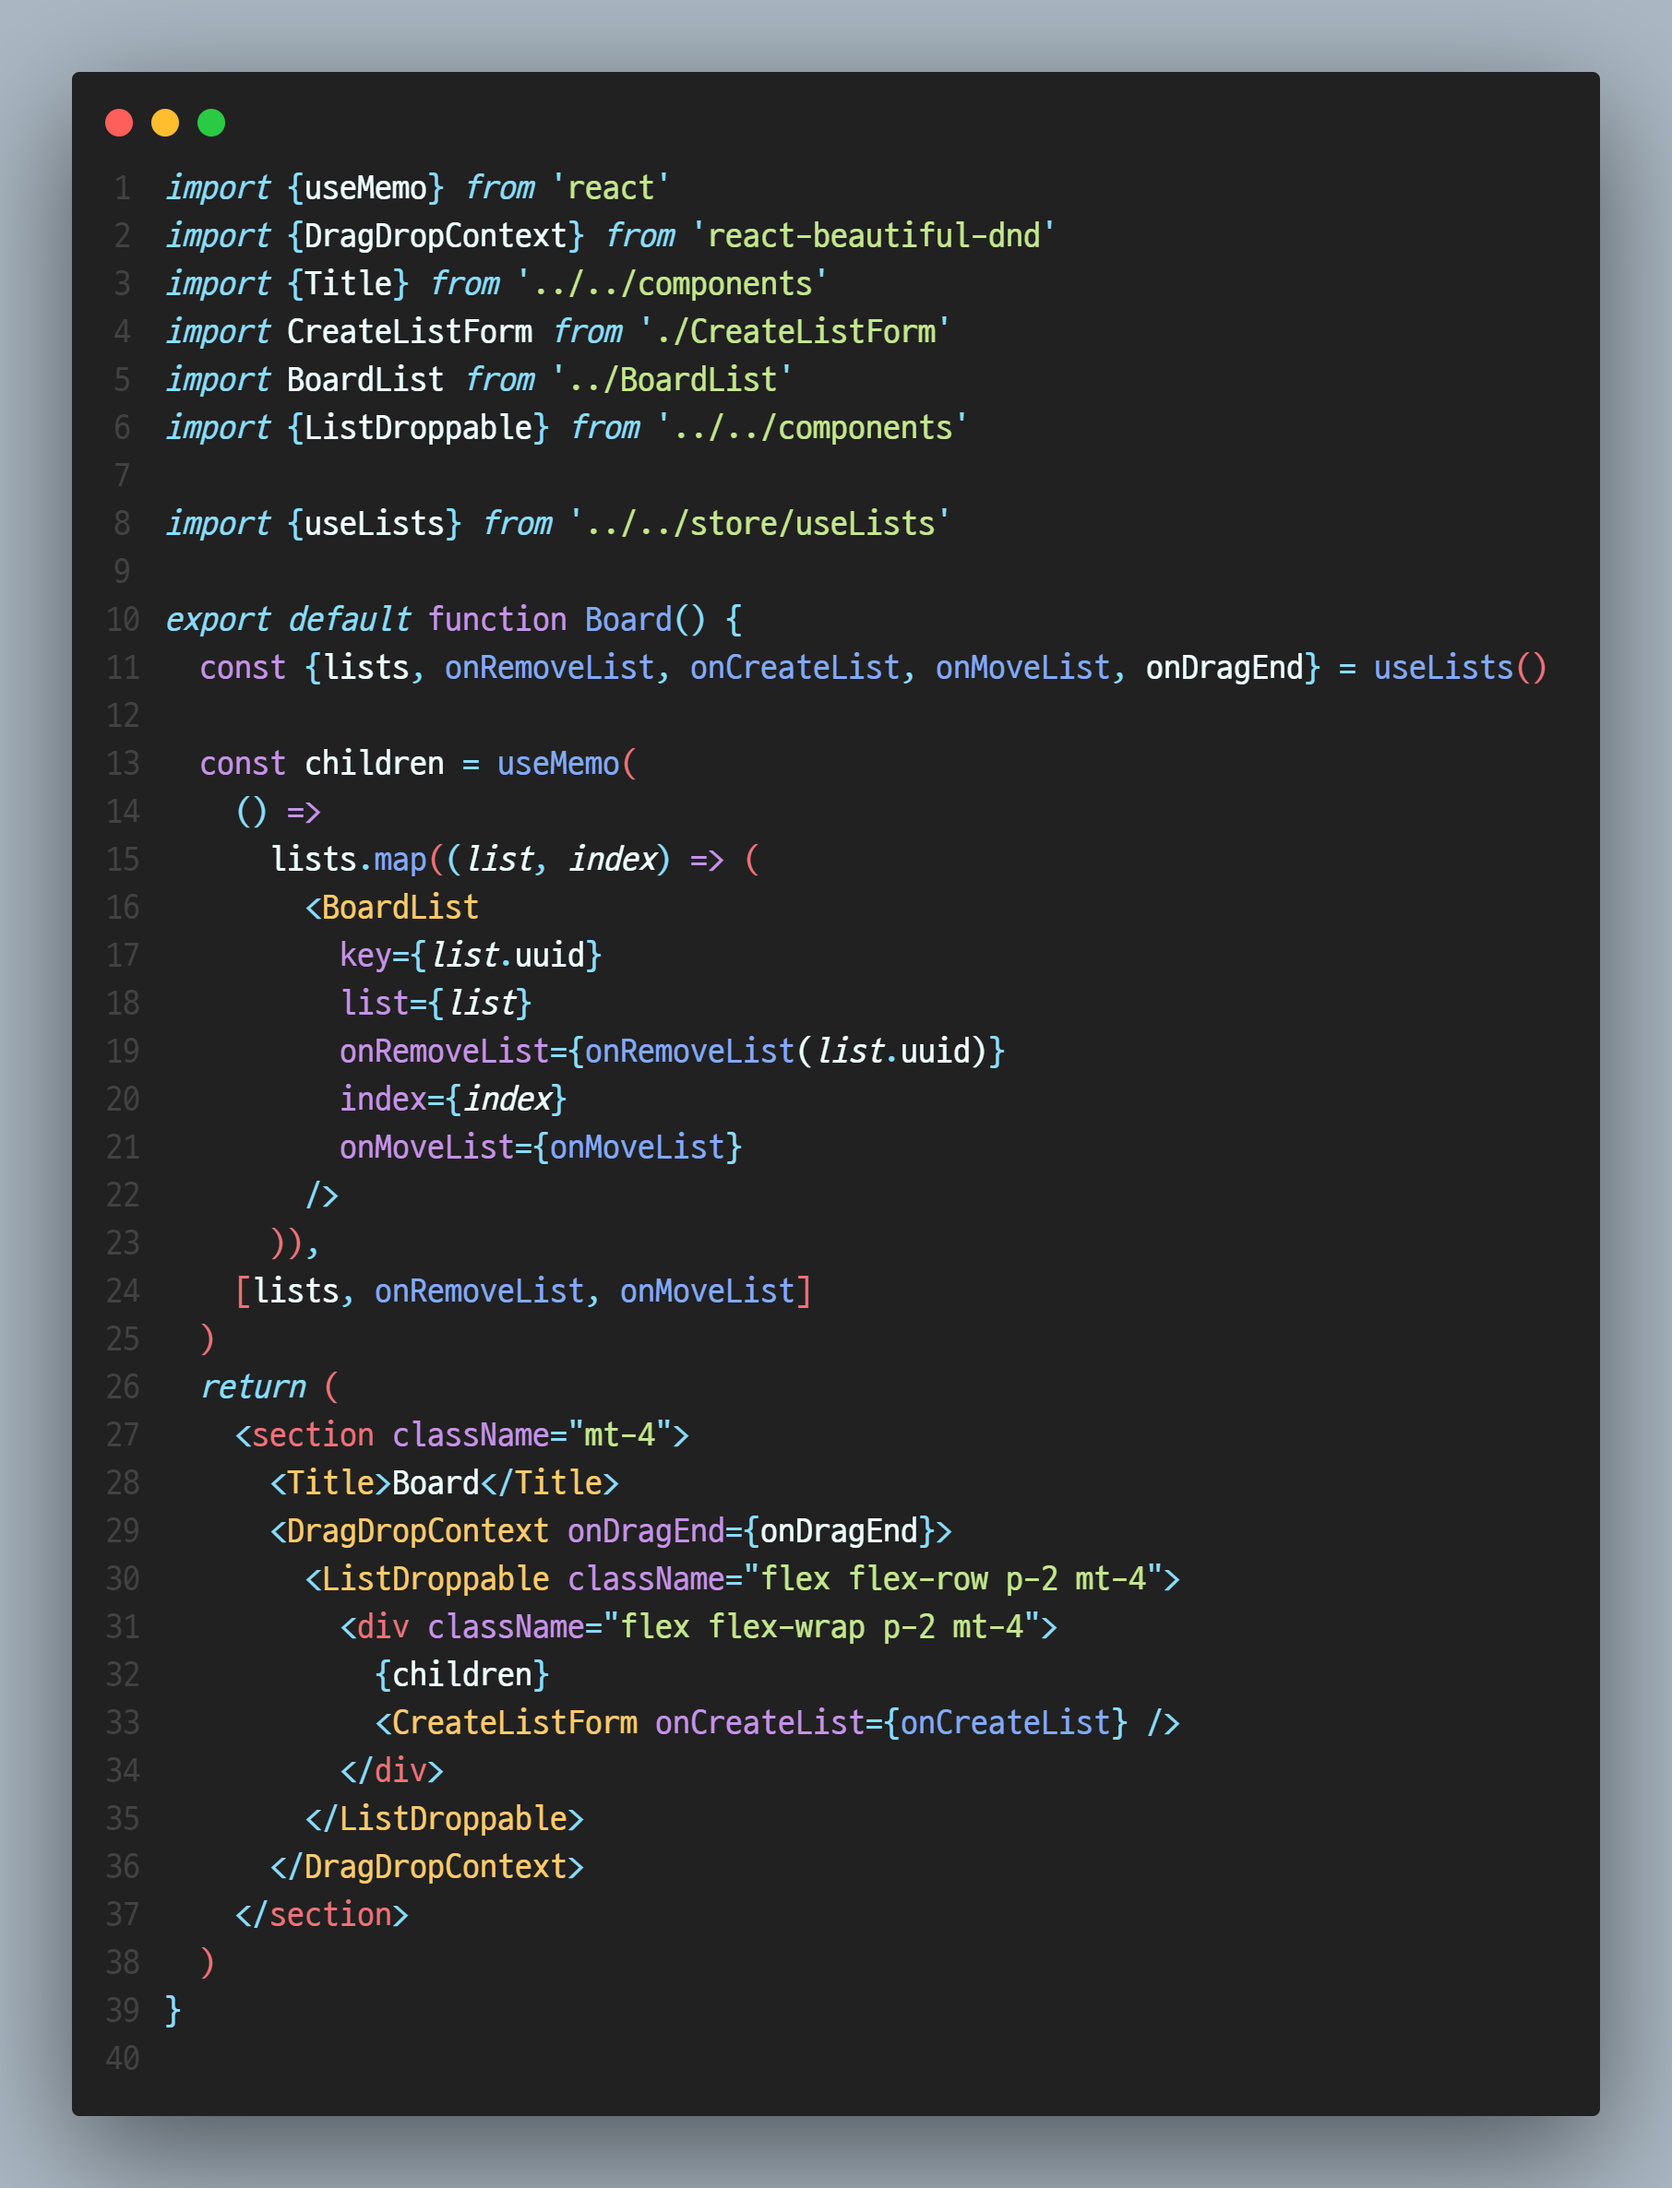
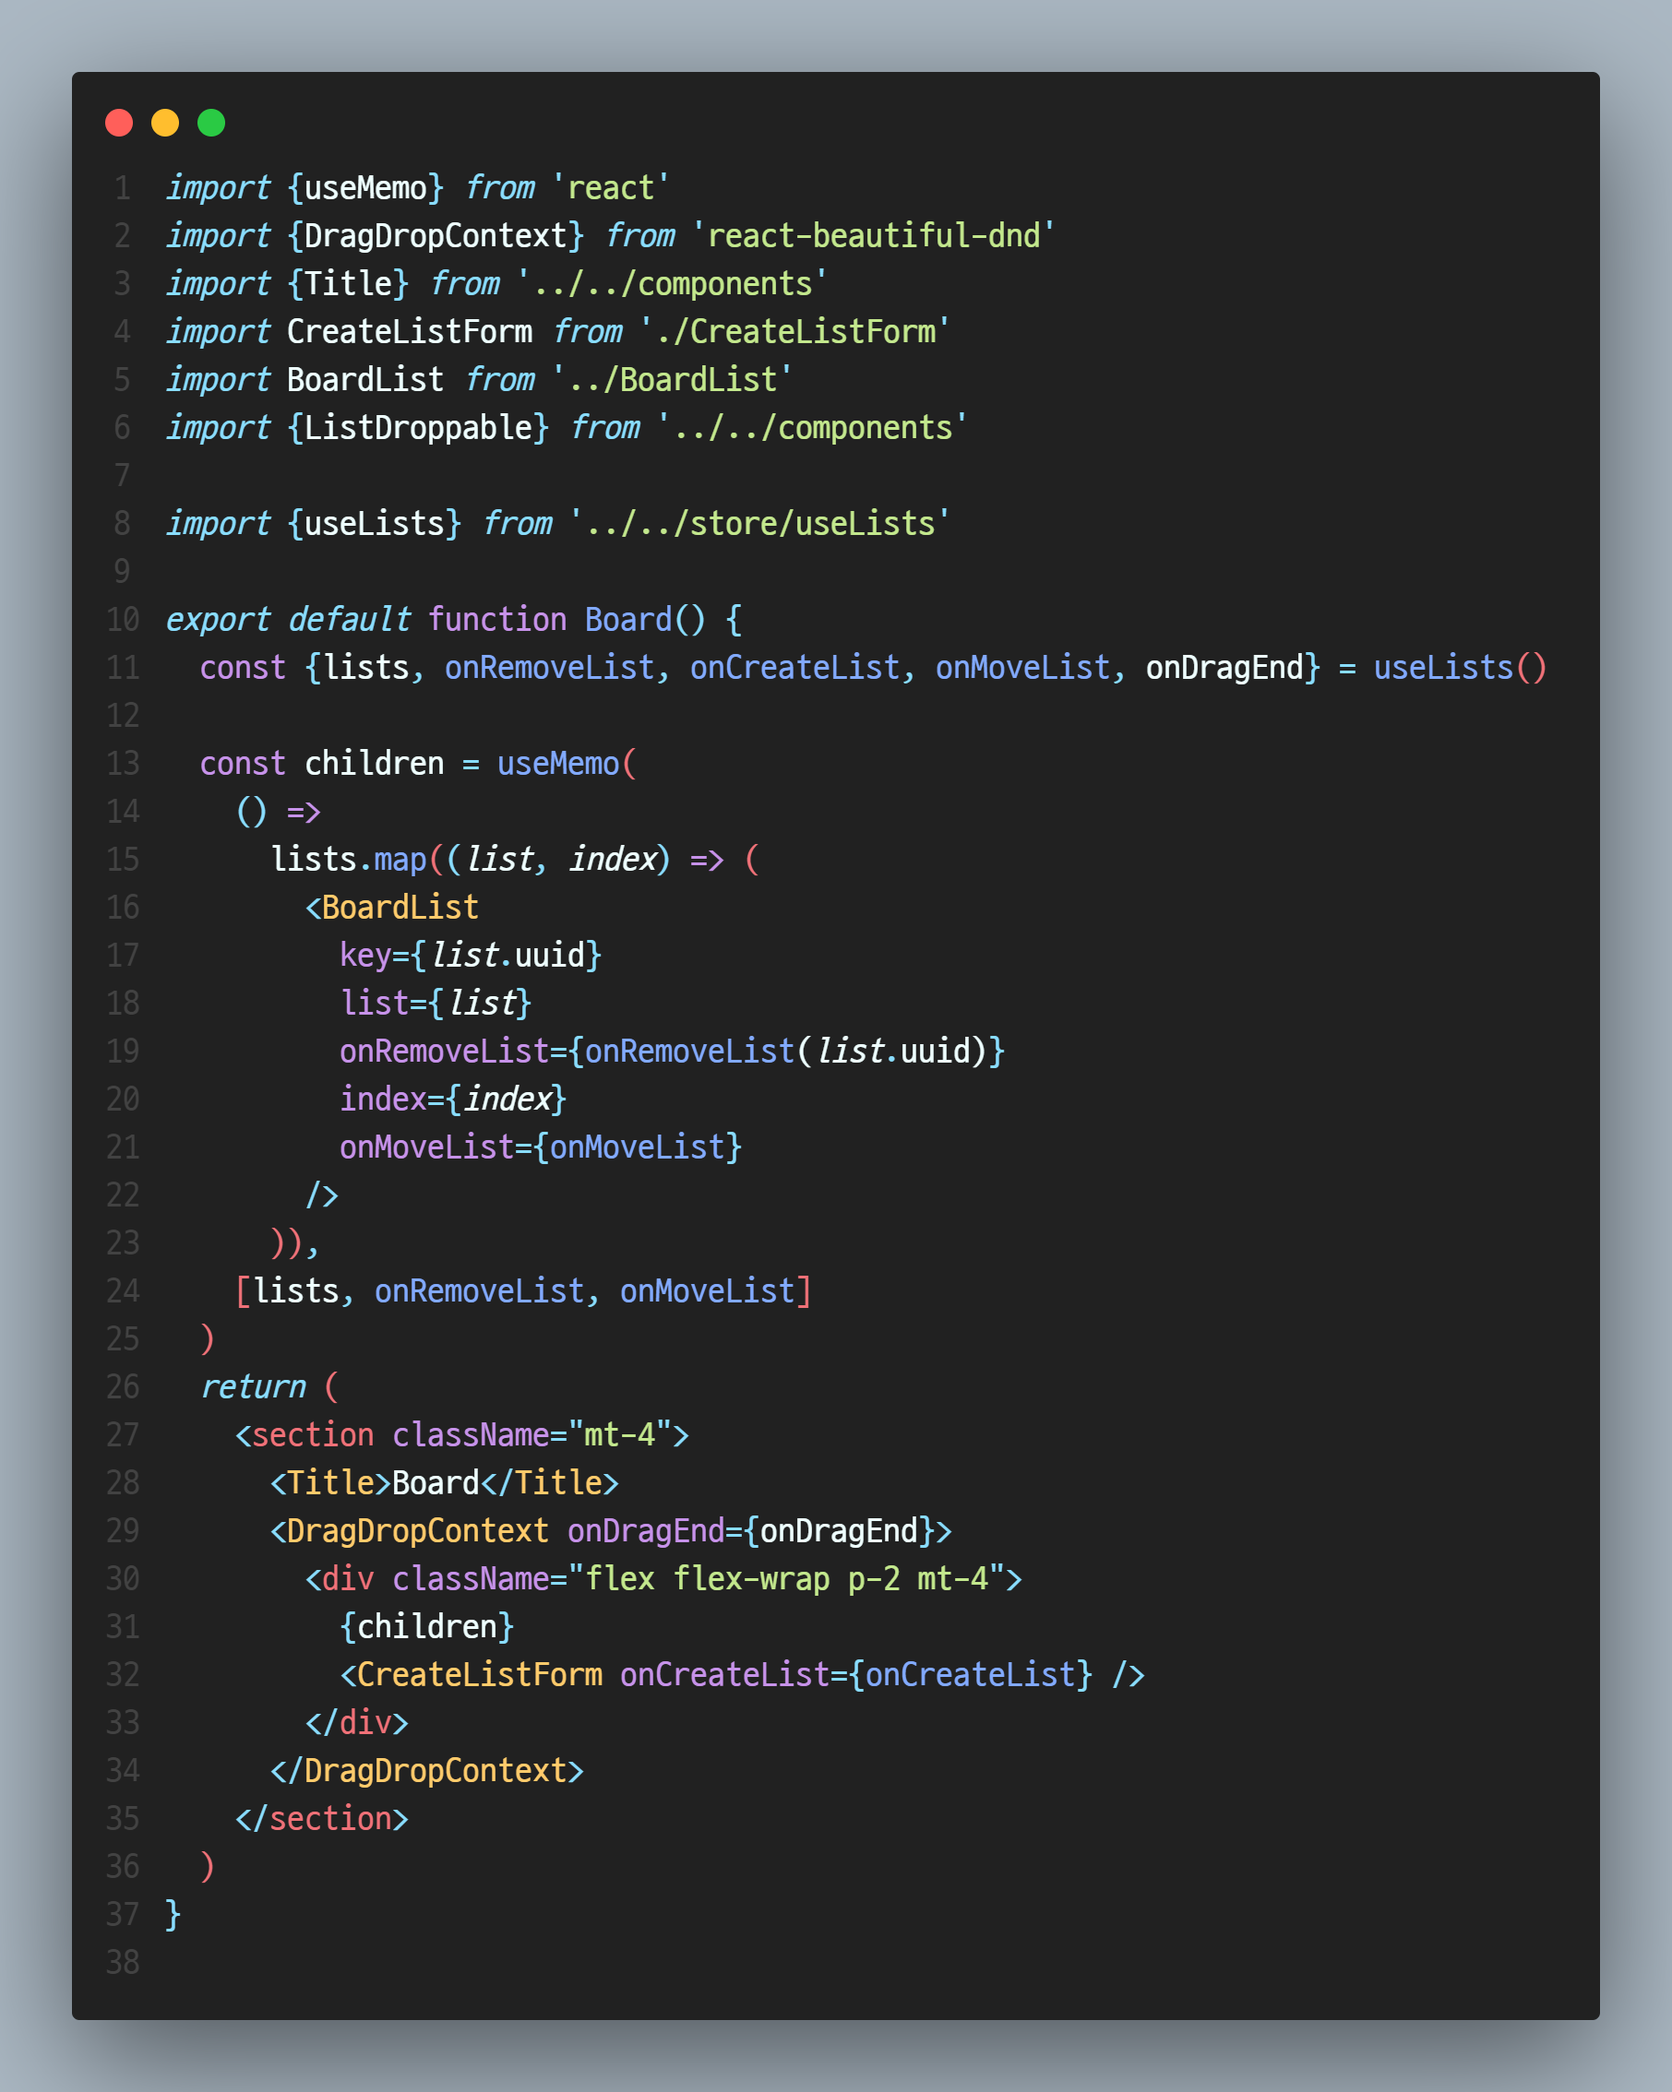
unfinished24 05.상태 관리와 리덕스 패키지_05-4.트렐로 따라 만들기

diff --git a/ch05/ch05_4/src/pages/Board/index.tsx b/ch05/ch05_4/src/pages/Board/index.tsx
@@ -27,12 +27,10 @@ export default function Board() {
     <section className="mt-4">
       <Title>Board</Title>
       <DragDropContext onDragEnd={onDragEnd}>
-        <ListDroppable className="flex flex-row p-2 mt-4">
-          <div className="flex flex-wrap p-2 mt-4">
-            {children}
-            <CreateListForm onCreateList={onCreateList} />
-          </div>
-        </ListDroppable>
+        <div className="flex flex-wrap p-2 mt-4">
+          {children}
+          <CreateListForm onCreateList={onCreateList} />
+        </div>
       </DragDropContext>
     </section>
   )

diff --git a/ch05/ch05_4/src/pages/BoardList/index.tsx b/ch05/ch05_4/src/pages/BoardList/index.tsx
@@ -4,6 +4,7 @@ import type {MoveFunc} from '../../components'
 
 import {useMemo} from 'react'
 import {Div} from '../../components'
+import {CardDroppable} from '../../components'
 import {Icon} from '../../theme/daisyui'
 import {ListDraggable} from '../../components'
 import ListCard from '../ListCard'
@@ -56,7 +57,7 @@ const BoardList: FC<BoardListProps> = ({
             />
           </div>
         </div>
-        <div className="flex flex-col p-2">{children}</div>
+        <CardDroppable droppableId={list.uuid}>{children}</CardDroppable>
       </Div>
     </ListDraggable>
   )

diff --git a/ch05/ch05_4/src/utils/arrayUtil.ts b/ch05/ch05_4/src/utils/arrayUtil.ts
@@ -1,0 +1,9 @@
+export const swapItemsInArray = <T>(array: T[], index1: number, index2: number) =>
+  array.map((item, index) =>
+    index === index1 ? array[index2] : index === index2 ? array[index1] : item
+  )
+
+  export const removeItemAtIndexInArray = <T>(array: T[], removeIndex: number) =>
+    array.filter((notUsed, index) => index !== removeIndex)
+
+  export const insertItemAtIndexInArray = 
